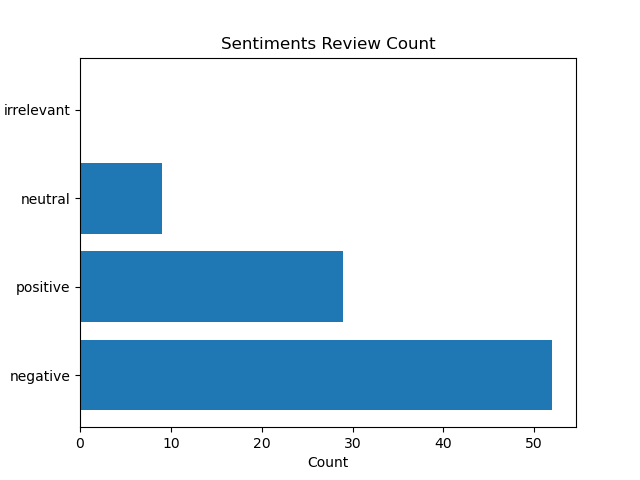
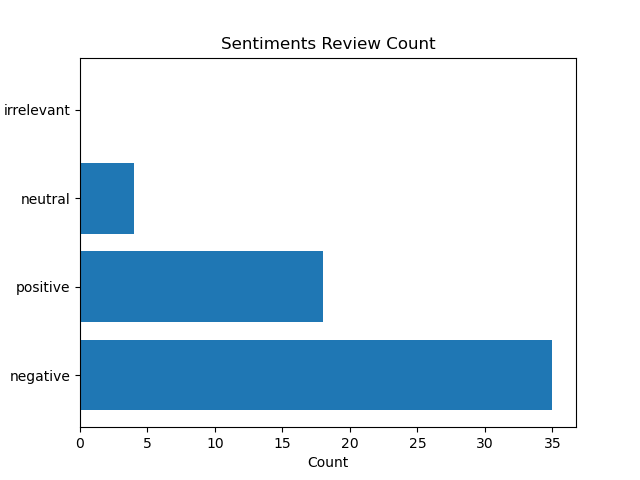
update

diff --git a/label.py b/label.py
@@ -13,13 +13,16 @@ def get_sentiment(text: list) -> list:
         if not isinstance(item, str):
             return "Wrong input. text must be an array of strings."
 
-    system_prompt = """
+    system_prompt = f"""
         Your are the sentiment analysis assistant that to classify its sentiment.
         The result must be in a list with category labels as strings. 
         Respond **only** in this JSON format:
-        {
+        {{
             "result": ["positive", "neutral", "negative", "irrelevant"]
-        }
+        }}
+        each sentiment only result in one labels.
+        Which means that the length of result array must be same as the length of original array.
+        The size of the original array will be {len(text)}
     """
 
     prompt = f"""
@@ -31,6 +34,7 @@ def get_sentiment(text: list) -> list:
     """
     # pass
     client = OpenAI()
+    print("input array size:", len(text))
     response = client.chat.completions.create(
         model="gpt-4o-mini",
         messages=[
@@ -45,6 +49,7 @@ def get_sentiment(text: list) -> list:
         json_result = json.loads(content)
         if isinstance(json_result, dict) and "result" in json_result:
             result = json_result["result"]
+            print("output array size:", len(text))
             return result if isinstance(result, list) else "Unexpected result format"
         else:
             return "Unexpected response format"

diff --git a/writeup.md b/writeup.md
@@ -2,16 +2,17 @@
 
 What is the most common sentiment observed in your sample of 50 reviews according to your OpenAI labeled data?
 
-[Answer here]
+Answer: The most common sentiment is negative. By looking the bar graph, the negative sentiment has the most frequency
+compare with others.
 
 ## Question 2
 
 How reliable do you believe these labels are? Look at the respective labels OpenAI has generated for specific reviews, does it seem like the large language model accurately described the user's review? What risk do model hallucinations introduce into this analysis?
 
-[Answer here]
+[Answer here] I think most of the labels are pretty reliable to me. But even though today's LLMs are really accurate,  they’re still not at 100%. That means there’s a chance that the same input could lead to different responses, even if it’s a small one. This could affect the consistency and possibly introduce bias into the final results once occur. In this tlab, GPT-4o-mini will return a inaccurate respond when the size of input is lager, there is a chance return a non-match size with the input array. There is also the issue that the AI may not return the expected data format.
 
 ## Question 3
 
 Using the most common sentiment, what would you recommend to this Coconut Water producer to improve customer satisfaction? Should they continue to pursue current market/product outcomes, or does there exist an opportunity for this business to improve its product?
 
-[Answer here]
+[Answer here] I would recommend that producers care more about user feedback of a suggestive nature. Try to find out what is unsatisfactory about the product from the user's point of view and improve it. According to the bar graph, I will say there is existing an opportunity for improve the product since the ratios of positive and negative around 1:2, and some neutral feedback. If the main problems are easy to fix, there’s still a chance the product could work out. But if user feedback doesn’t improve in a month or two, it might be time to consider close the product.
